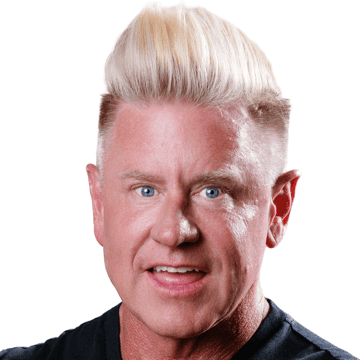
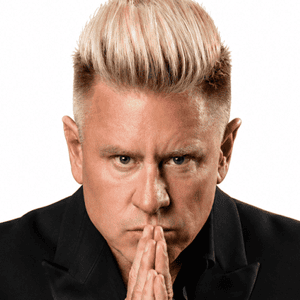
Switch Black Friday countdown to daily reset and recompress hero image
- Count down to a daily 5:30 a.m. PST reset instead of a fixed end date
- Drop the days unit; use a self-correcting setTimeout to avoid drift
- Recompress bravo-face-2 image

diff --git a/index.html b/index.html
@@ -820,7 +820,6 @@ background: linear-gradient(115deg,
                 <div class="cp-bf-deadline">
                   <span class="cp-bf-deadline-label">Ends in</span>
                   <span class="cp-bf-timer" role="timer" aria-label="Time remaining in the Black Friday sale">
-                    <span class="cp-bf-unit"><span data-cp-bf-digit="">00</span><abbr title="days">D</abbr></span>
                     <span class="cp-bf-unit"><span data-cp-bf-digit="">00</span><abbr title="hours">H</abbr></span>
                     <span class="cp-bf-unit"><span data-cp-bf-digit="">00</span><abbr title="minutes">M</abbr></span>
                     <span class="cp-bf-unit"><span data-cp-bf-digit="">00</span><abbr title="seconds">S</abbr></span>
@@ -1291,11 +1290,6 @@ background: linear-gradient(115deg,
                 <div class="n-plan-desc-copy">Black Friday Ends</div>
                 <div class="countdown-wrap">
                   <div class="countdown-box">
-                    <div class="countdown-item">
-                      <div class="countdown-fill">
-                        <div class="countdown-number"><span class="cd-days">00</span> <span class="countdown-label">DAYS</span></div>
-                      </div>
-                    </div>
                     <div class="countdown-item">
                       <div class="countdown-fill">
                         <div class="countdown-number"><span class="cd-hours">00</span> <span class="countdown-label">HRS</span></div>
@@ -6864,15 +6858,15 @@ head.appendChild(script);
 </script>
   <script>
   (function () {
-    var END_DATE = Date.parse('2026-12-01T00:00:00Z') / 1000;
+    var SECONDS_PER_DAY = 24 * 60 * 60;
+    var RESET_TIME_UTC = 13 * 3600 + 30 * 60; // 5:30 a.m. PST (UTC-08:00).
     var hero = document.querySelector('.bf-hero .cp-bf-sale-countdown');
     var heroDigits = hero ? hero.querySelectorAll('[data-cp-bf-digit]') : [];
     var motion = window.matchMedia('(prefers-reduced-motion: no-preference)');
     var inView = !('IntersectionObserver' in window);
-    var secondsRemaining = 0;
     function syncMotion() {
       hero.classList.toggle('cp-bf-sale-visible',
-        inView && !document.hidden && motion.matches && secondsRemaining > 0);
+        inView && !document.hidden && motion.matches);
     }
     if (hero) {
       if (!inView) {
@@ -6889,26 +6883,26 @@ head.appendChild(script);
     }
     function updateCountdowns() {
       var nowUTC = Math.floor(Date.now() / 1000);
-      secondsRemaining = Math.max(0, END_DATE - nowUTC);
-      var days = Math.floor(secondsRemaining / 86400);
-      var hours = Math.floor((secondsRemaining % 86400) / 3600);
+      var cycle = Math.floor((nowUTC - RESET_TIME_UTC) / SECONDS_PER_DAY);
+      var nextResetUTC = RESET_TIME_UTC + (cycle + 1) * SECONDS_PER_DAY;
+      var secondsRemaining = nextResetUTC - nowUTC;
+      var hours = Math.floor(secondsRemaining / 3600);
       var minutes = Math.floor((secondsRemaining % 3600) / 60);
       var seconds = secondsRemaining % 60;
-      var values = [days, hours, minutes, seconds];
+      var values = [hours, minutes, seconds];
       heroDigits.forEach(function (digit, index) {
         var value = pad(values[index]);
         if (digit.textContent !== value) digit.textContent = value;
       });
       document.querySelectorAll('.countdown-wrap').forEach(function (countdown) {
-        countdown.querySelector('.cd-days').textContent = pad(days);
         countdown.querySelector('.cd-hours').textContent = pad(hours);
         countdown.querySelector('.cd-minutes').textContent = pad(minutes);
         countdown.querySelector('.cd-seconds').textContent = pad(seconds);
       });
       if (hero) syncMotion();
+      setTimeout(updateCountdowns, 1000 - (Date.now() % 1000));
     }
     updateCountdowns();
-    setInterval(updateCountdowns, 1000);
   })();
 </script>
 </body>

diff --git a/jbravo.html b/jbravo.html
@@ -814,7 +814,6 @@ background: linear-gradient(115deg,
                 <div class="cp-bf-deadline">
                   <span class="cp-bf-deadline-label">Ends in</span>
                   <span class="cp-bf-timer" role="timer" aria-label="Time remaining in the Black Friday sale">
-                    <span class="cp-bf-unit"><span data-cp-bf-digit="">00</span><abbr title="days">D</abbr></span>
                     <span class="cp-bf-unit"><span data-cp-bf-digit="">00</span><abbr title="hours">H</abbr></span>
                     <span class="cp-bf-unit"><span data-cp-bf-digit="">00</span><abbr title="minutes">M</abbr></span>
                     <span class="cp-bf-unit"><span data-cp-bf-digit="">00</span><abbr title="seconds">S</abbr></span>
@@ -1289,11 +1288,6 @@ background: linear-gradient(115deg,
                 <div class="n-plan-desc-copy">Black Friday Ends</div>
                 <div class="countdown-wrap">
                   <div class="countdown-box">
-                    <div class="countdown-item">
-                      <div class="countdown-fill">
-                        <div class="countdown-number"><span class="cd-days">00</span> <span class="countdown-label">DAYS</span></div>
-                      </div>
-                    </div>
                     <div class="countdown-item">
                       <div class="countdown-fill">
                         <div class="countdown-number"><span class="cd-hours">00</span> <span class="countdown-label">HRS</span></div>
@@ -7065,15 +7059,15 @@ head.appendChild(script);
 </script>
   <script>
   (function () {
-    var END_DATE = Date.parse('2026-12-01T00:00:00Z') / 1000;
+    var SECONDS_PER_DAY = 24 * 60 * 60;
+    var RESET_TIME_UTC = 13 * 3600 + 30 * 60; // 5:30 a.m. PST (UTC-08:00).
     var hero = document.querySelector('.bf-hero .cp-bf-sale-countdown');
     var heroDigits = hero ? hero.querySelectorAll('[data-cp-bf-digit]') : [];
     var motion = window.matchMedia('(prefers-reduced-motion: no-preference)');
     var inView = !('IntersectionObserver' in window);
-    var secondsRemaining = 0;
     function syncMotion() {
       hero.classList.toggle('cp-bf-sale-visible',
-        inView && !document.hidden && motion.matches && secondsRemaining > 0);
+        inView && !document.hidden && motion.matches);
     }
     if (hero) {
       if (!inView) {
@@ -7090,26 +7084,26 @@ head.appendChild(script);
     }
     function updateCountdowns() {
       var nowUTC = Math.floor(Date.now() / 1000);
-      secondsRemaining = Math.max(0, END_DATE - nowUTC);
-      var days = Math.floor(secondsRemaining / 86400);
-      var hours = Math.floor((secondsRemaining % 86400) / 3600);
+      var cycle = Math.floor((nowUTC - RESET_TIME_UTC) / SECONDS_PER_DAY);
+      var nextResetUTC = RESET_TIME_UTC + (cycle + 1) * SECONDS_PER_DAY;
+      var secondsRemaining = nextResetUTC - nowUTC;
+      var hours = Math.floor(secondsRemaining / 3600);
       var minutes = Math.floor((secondsRemaining % 3600) / 60);
       var seconds = secondsRemaining % 60;
-      var values = [days, hours, minutes, seconds];
+      var values = [hours, minutes, seconds];
       heroDigits.forEach(function (digit, index) {
         var value = pad(values[index]);
         if (digit.textContent !== value) digit.textContent = value;
       });
       document.querySelectorAll('.countdown-wrap').forEach(function (countdown) {
-        countdown.querySelector('.cd-days').textContent = pad(days);
         countdown.querySelector('.cd-hours').textContent = pad(hours);
         countdown.querySelector('.cd-minutes').textContent = pad(minutes);
         countdown.querySelector('.cd-seconds').textContent = pad(seconds);
       });
       if (hero) syncMotion();
+      setTimeout(updateCountdowns, 1000 - (Date.now() % 1000));
     }
     updateCountdowns();
-    setInterval(updateCountdowns, 1000);
   })();
 </script>
 </body>
